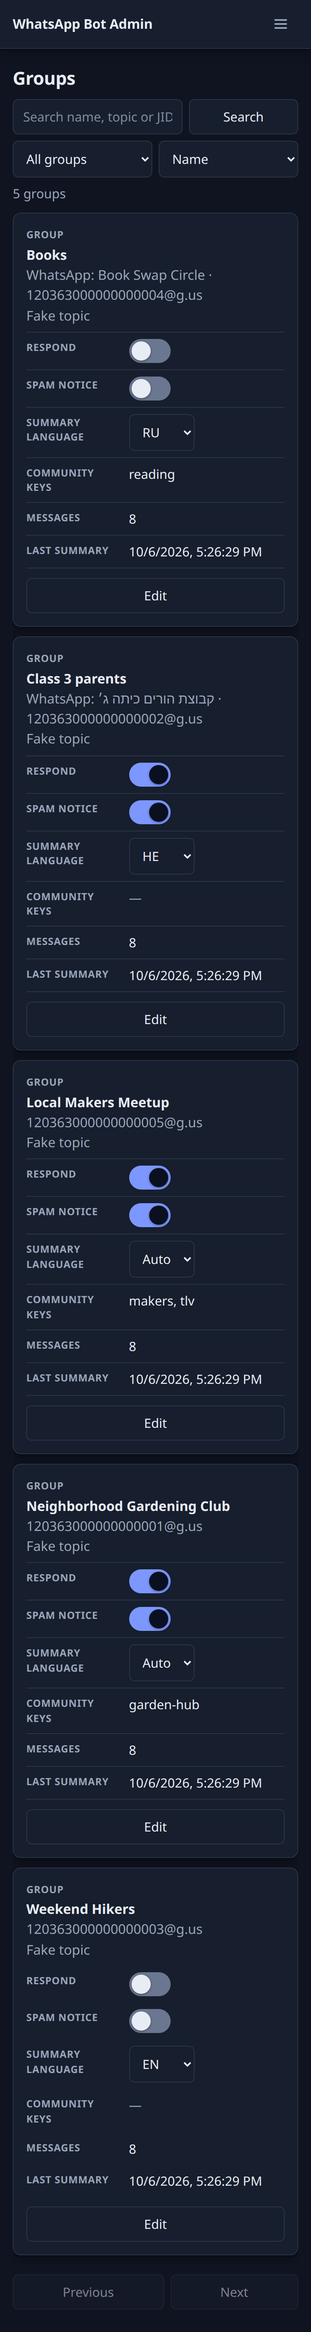
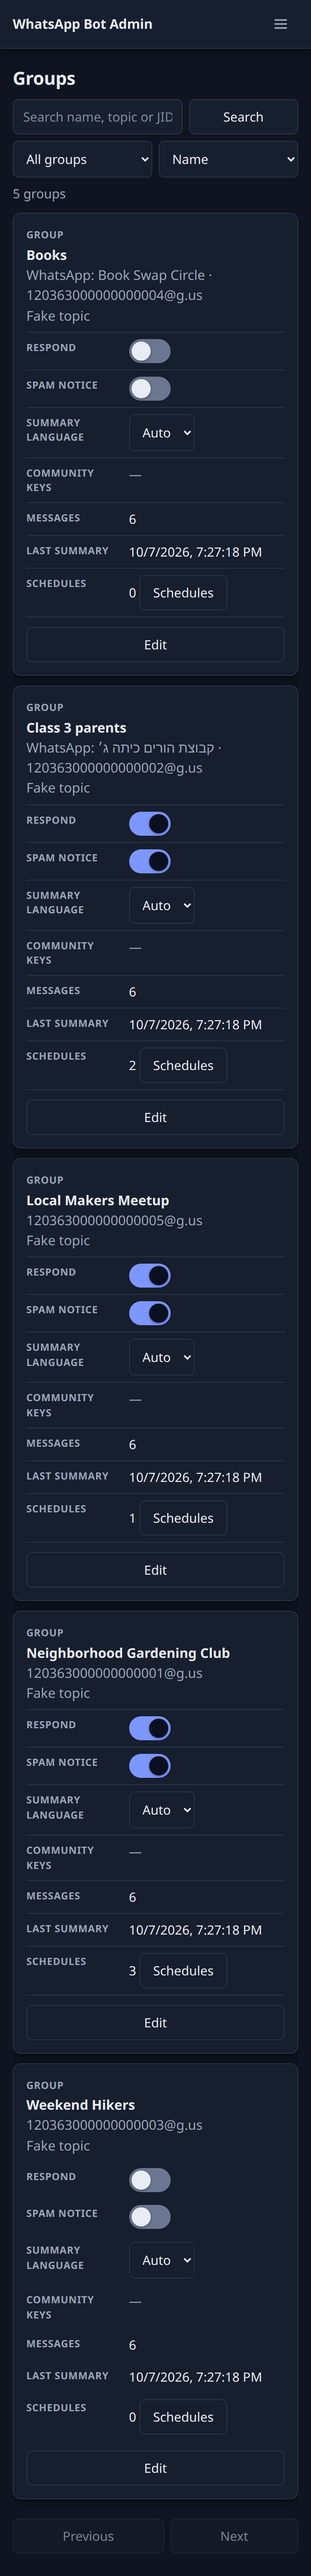
docs: document summary schedules and refresh admin screenshots

diff --git a/README.md b/README.md
@@ -78,6 +78,8 @@ cp .env.example .env
 | `ADMIN_PASSWORD`               | Admin UI login password. The admin UI is disabled unless both this and `ADMIN_SESSION_SECRET` are set | –                                          |
 | `ADMIN_SESSION_SECRET`         | Secret (>= 32 random chars) that signs the admin session cookie; generate with `openssl rand -hex 32`. Changing it logs everyone out | – |
 | `ADMIN_COOKIE_SECURE`          | Mark the admin session cookie `Secure`; set to `true` when served over HTTPS       | `false`                                                      |
+| `TIMEZONE`                     | IANA time zone in which group summary schedules are evaluated (invalid values stop startup) | `Asia/Jerusalem`                    |
+| `SCHEDULER_ENABLED`            | Run the in-app scheduler that sends scheduled group summaries; set `false` to disable it | `true`                                  |
 
 </div>
 
@@ -155,6 +157,7 @@ A web admin UI (served at `/admin`) lets you manage the bot without touching the
   - **Summary language** is `Auto`, `HE`, `EN` or `RU`. `Auto` follows the language of the chat. `HE`, `EN` and `RU` force that language for scheduled and admin-triggered summaries. On-demand summaries (a user asking the bot in the group) follow the language of the request.
 - **Contacts**: view and edit sender names.
 - **Opt-outs**: view, add and remove opted-out contacts.
+- **Schedules**: per-group recurring summaries (see [Scheduled summaries](#scheduled-summaries)).
 - **Messages**: read-only message browser with search and filters.
 - **Bot actions**: run group summaries or load the knowledge base on demand. After a summary run, a per-group result list shows which groups were sent, skipped (for example "9 of 15 messages needed") or failed, and why.
 
@@ -174,6 +177,32 @@ ADMIN_SESSION_SECRET=$(openssl rand -hex 32)
 - HTTPS is strongly recommended: terminate TLS at a reverse proxy and set `ADMIN_COOKIE_SECURE=true`.
 - The admin API lives under `/api/v1/admin` (login-protected; see Swagger at `/docs`).
 
+#### Scheduled summaries
+
+Each group can have its own summary schedules, so summaries no longer need an external cron job. Open **Groups**, click **Schedules** in a group's row (the column also shows how many schedules the group has) and add as many schedules as you like (up to 20 per group):
+
+- A schedule is a set of weekdays plus a time of day, entered in 12-hour form with AM/PM (12 AM is midnight, 12 PM is noon). Each schedule can be enabled or disabled without deleting it, and the dialog shows its last run: when, the outcome (sent, skipped or failed) and the message count.
+- Times use the server time zone from `TIMEZONE` (default `Asia/Jerusalem`), shown at the top of the dialog. A time that does not exist on a daylight-saving change runs once at the first valid minute.
+- Only groups with **Respond** on (managed) run. A schedule of an unmanaged group is kept but does nothing.
+- A run needs at least 15 new messages since the group's last summary. Otherwise it is skipped and recorded as skipped ("Not enough new messages"); the next summary then covers everything since the last one that was actually sent.
+- The scheduler checks once a minute. After downtime a missed run is still sent up to 60 minutes late; older missed runs are skipped.
+- A run is claimed in the database before it starts, so a restart or a second tick does not repeat it.
+- The scheduler runs inside the web server process. Run a single web server process; with `SCHEDULER_ENABLED=false` nothing is scheduled.
+- Scheduled runs, admin "Bot actions" and the legacy endpoint share a per-group lock inside one process, so they do not run at the same time for one group.
+
+> **Warning:** if an external cron job still calls `/summarize_and_send_to_groups` and a group also has schedules, that group's summary can be posted twice. Remove the cron job (or the schedules) when you switch.
+
+The API (login-protected, under `/api/v1/admin/groups/{jid}/schedules`):
+
+| Method   | Path                                                 | Purpose                                                            |
+| -------- | ---------------------------------------------------- | ------------------------------------------------------------------ |
+| `GET`    | `/api/v1/admin/groups/{jid}/schedules`               | List schedules and the configured `timezone`                        |
+| `POST`   | `/api/v1/admin/groups/{jid}/schedules`               | Create one (`409` after 20 per group)                              |
+| `PATCH`  | `/api/v1/admin/groups/{jid}/schedules/{schedule_id}` | Change weekdays, time or `enabled`                                  |
+| `DELETE` | `/api/v1/admin/groups/{jid}/schedules/{schedule_id}` | Delete one                                                         |
+
+Fields: `weekdays` (non-empty list of integers, 0 = Sunday to 6 = Saturday), the time as either `hour` (0-23) or `hour12` (1-12) with `meridiem` (`AM`/`PM`) but not both, `minute` (0-59) and `enabled`. Example: `{"weekdays": [0, 2, 4], "hour12": 9, "minute": 0, "meridiem": "AM"}`.
+
 #### Notes
 
 - **Group names:** the WhatsApp name, topic and owner are refreshed from WhatsApp and are read-only. The "display name" is your own alias and survives syncs.
@@ -190,6 +219,12 @@ ADMIN_SESSION_SECRET=$(openssl rand -hex 32)
 #### Groups
 ![Groups](assets/screenshots/admin-groups-light.png)
 ![Groups (dark)](assets/screenshots/admin-groups-dark.png)
+
+#### Schedules
+The Schedules dialog of a group, in light and dark:
+
+![Schedules dialog](assets/screenshots/admin-schedules-light.png)
+![Schedules dialog (dark)](assets/screenshots/admin-schedules-dark.png)
 
 Editing a group (display name, summary language and community keys):
 
@@ -224,6 +259,8 @@ Summary results per group after a run:
 #### Mobile
 <p>
 <img src="assets/screenshots/admin-mobile-groups-light.png" alt="Groups on mobile" width="220">
+<img src="assets/screenshots/admin-mobile-schedules-light.png" alt="Schedules dialog on mobile" width="220">
+<img src="assets/screenshots/admin-mobile-schedules-dark.png" alt="Schedules dialog on mobile (dark)" width="220">
 <img src="assets/screenshots/admin-mobile-menu-light.png" alt="Mobile navigation menu" width="220">
 <img src="assets/screenshots/admin-mobile-messages-light.png" alt="Messages on mobile" width="220">
 <img src="assets/screenshots/admin-mobile-actions-light.png" alt="Bot actions on mobile" width="220">
